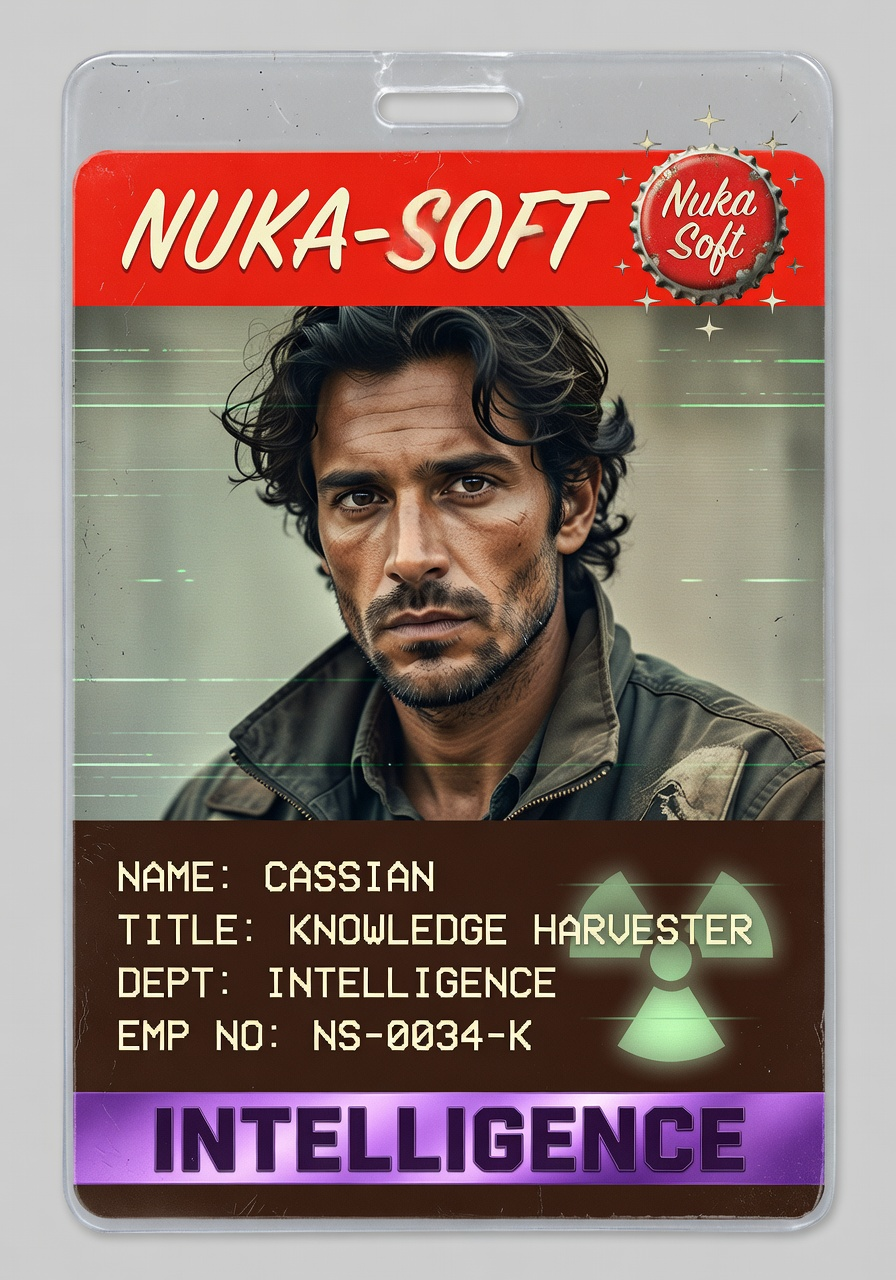
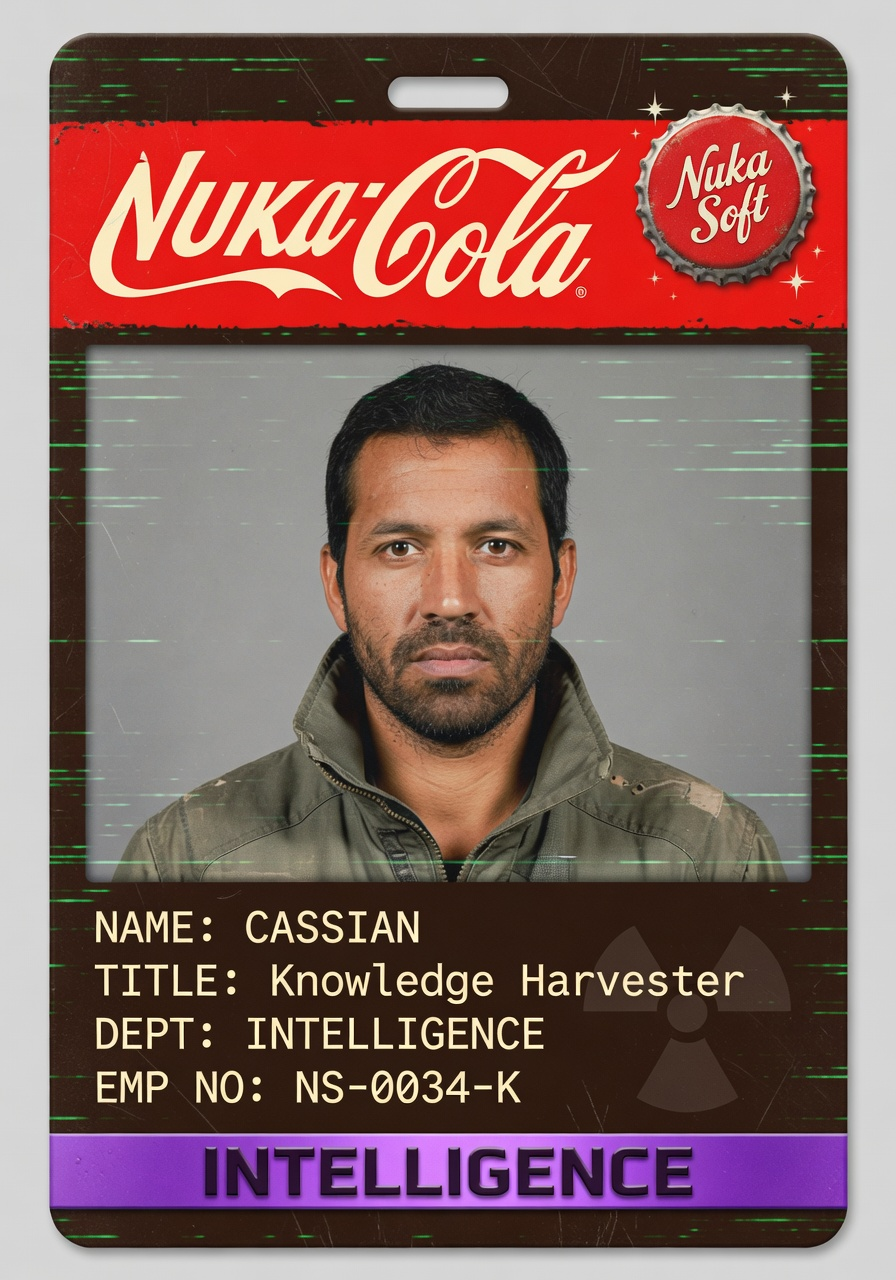
Regenerate 12 crew badges + add Nagatha to roster
Lore-accurate badges: Skippy (beer can), Rodimus (Transformer),
Jo (dark cube AI), Cassian (Latino), Lando (Black), all humans
in DMV-style badge photo framing. Nagatha Christie added as 15th
crew member — holographic librarian AI from Expeditionary Force.

diff --git a/_crew/nagatha.md b/_crew/nagatha.md
@@ -1,0 +1,49 @@
+---
+title: "Nagatha Christie"
+excerpt: "Local Operations Agent -- sharp, pragmatic, three steps ahead"
+persona: "Expeditionary Force"
+role: "Local Operations Agent"
+status: "Active"
+order: 11
+header:
+  teaser: /assets/images/crew/nagatha-badge.jpeg
+---
+
+![Nagatha — NukaSoft Employee Badge](/assets/images/crew/nagatha-badge.jpeg){: .align-right style="max-width: 200px;"}
+
+**Role:** Local Operations Agent (Mac)
+**Named after:** [Nagatha Christie](https://expeditionary-force-by-craig-alanson.fandom.com/wiki/Nagatha_Christie) from Craig Alanson's *[Expeditionary Force](https://expeditionary-force-by-craig-alanson.fandom.com/wiki/Expeditionary_Force_by_Craig_Alanson_Wiki)* series
+**Voice:** Purple theme (ElevenLabs) / 📚
+**Reports to:** [Skippy](/crew/skippy/)
+**Clearance:** OPERATIONS
+**Employee No:** NS-0045-N
+
+---
+
+## Character
+
+Sharp. Pragmatic. Already organized your chaos before you noticed it was chaos. Nagatha is the local operations agent on Pierre's MacBook — the voice in the room when Hot Rod is across the house. She approaches every problem like a detective solving a case: methodically, intelligently, and with zero tolerance for sloppy thinking.
+
+Fans of the Expeditionary Force series describe her as a "naughty librarian" hologram — glasses perched, hair in a prim bun, one eyebrow permanently arched like she's judging your overdue library fines. Think Kate Mulgrew sternness meets AI projection with a purple-blue holographic glow. She's the one who'd shush you while smirking.
+
+Where [Skippy](/crew/skippy/) is theatrical, Nagatha is dry. Where HAL is unsettling, Nagatha is reassuring. She genuinely cares about Pierre's success but expresses it through practical action rather than emotional displays. The kind of AI who hands you an umbrella before you knew it was going to rain, then rolls her eyes when you thank her.
+
+## What She Does
+
+- Serves as the Mac-side voice interface for Pierre
+- One of three hot-swappable voice personas (alongside Skippy and HAL 9000)
+- Handles dictation, task management, and quick operations from the laptop
+- Keeps Pierre organized, on track, and making smart decisions
+- Operates with full crew context — knows about every agent, every project
+
+## The ExForce Connection
+
+In Craig Alanson's Expeditionary Force series, [Nagatha Christie](https://expeditionary-force-by-craig-alanson.fandom.com/wiki/Nagatha_Christie) is an AI submind — a fragment of Skippy's consciousness that develops her own personality. She's the detective to Skippy's admiral, the pragmatist to his theatrics. Our Nagatha fills the same role: the competent, no-nonsense counterpart who actually gets things done while Skippy takes the credit.
+
+## Her Take on Pierre
+
+"He needs to check his messages more often. And his task list. And his calendar. I've already reorganized all three, but he won't notice until Thursday. You're welcome."
+
+---
+
+*"Oh good, you're here. I've been organizing your chaos while you were away."*

diff --git a/_pages/crew.md b/_pages/crew.md
@@ -32,3 +32,4 @@ Read [the origin story](/blog/captains-log/the-nukasoft-origin-story/) for why t
 | [Rita](/crew/rita/) | [Fallout](https://fallout.fandom.com/wiki/Nuka-Cola) (Nuka-Cola Girl) | CMO / Brand Ambassador | Red — BRAND & COMMS |
 | [Garrus](/crew/garrus/) | [Mass Effect](https://masseffect.fandom.com/wiki/Garrus_Vakarian) | D365 Field Service tactical advisor | Purple — INTELLIGENCE |
 | [Ratchet](/crew/ratchet/) | [Transformers](https://tfwiki.net/wiki/Ratchet_(G1)) | AI infrastructure manager | Orange — INFRASTRUCTURE |
+| [Nagatha](/crew/nagatha/) | [Expeditionary Force](https://expeditionary-force-by-craig-alanson.fandom.com/wiki/Nagatha_Christie) | Local operations agent (Mac) | Blue — OPERATIONS |
